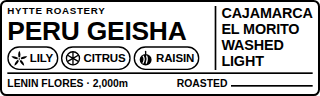
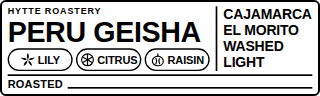
Tidy up the Peru Geisha storage label layout
Same information, fewer visual elements:
- Equal-width cup-note chips on a fixed left column, so the three
  badges line up instead of running ragged into the divider
- One outline icon style for all three notes (lily stays a silhouette
  for legibility at 203 dpi)
- Evenly spaced spec column, larger product name
- Bottom band reduced to a single ROASTED write-in rule; producer name
  and altitude dropped as the lowest-priority fields

Claude-Session: https://claude.ai/code/session_01VZhszou4rETUdQ5poG58zp

diff --git a/labels/hytte-peru-geisha/label_source.html b/labels/hytte-peru-geisha/label_source.html
@@ -1,33 +1,34 @@
 <meta charset="utf-8">
 <style>
-  @page { margin:0 }
   html,body{margin:0;padding:0;background:#fff;width:960px;height:288px;overflow:hidden}
   *{box-sizing:border-box}
   #label{
-    width:960.0px;height:288.0px;background:#fff;color:#000;
-    border:6.72px solid #000;border-radius:19.2px;
+    width:960px;height:288px;background:#fff;color:#000;
+    border:6px solid #000;border-radius:17px;
     font-family:"Liberation Sans","DejaVu Sans",Arial,sans-serif;
     display:flex;flex-direction:column;overflow:hidden;
-    padding:12.0px 15.84px 10.08px 15.84px;
+    padding:13px 17px 11px 17px;
   }
   .top{display:flex;flex:1 1 auto;min-height:0}
-  .left{flex:1 1 auto;min-width:0;display:flex;flex-direction:column;padding-right:13.2px}
-  .brand{font-size:29.28px;font-weight:700;letter-spacing:2.04px;line-height:1;white-space:nowrap}
-  .name{font-size:79.2px;font-weight:700;letter-spacing:-0.72px;line-height:1;white-space:nowrap;margin-top:7.2px}
-  .notes{display:flex;gap:8.16px;margin-top:auto}
-  .chip{display:flex;align-items:center;gap:5.28px;border:4.8px solid #000;border-radius:36.0px;
-        padding:0 11.52px 0 6.24px;height:70.08px}
-  .chip span{font-size:34.56px;font-weight:700;line-height:1;letter-spacing:-0.36px;white-space:nowrap}
-  .chip svg{display:block;width:51.84px;height:51.84px;flex:0 0 auto}
-  .divider{width:5.28px;background:#000;margin-right:14.88px;align-self:stretch}
-  .right{flex:0 0 auto;display:flex;flex-direction:column;justify-content:space-between;padding:0.48px 0 2.88px 0}
-  .spec{font-size:43.2px;font-weight:700;line-height:1;white-space:nowrap;letter-spacing:-0.48px}
-  .bottom{display:flex;align-items:center;gap:16.8px;border-top:5.28px solid #000;
-          margin-top:7.68px;padding-top:7.2px;height:54.72px}
-  .sub{font-size:31.2px;font-weight:700;line-height:1;white-space:nowrap}
-  .roast{margin-left:auto;display:flex;align-items:center;gap:10.8px}
-  .roast b{font-size:31.2px;font-weight:700;line-height:1}
-  .blank{width:244.8px;height:5.28px;background:#000;align-self:center;margin-top:14.4px}
+
+  .left{width:606px;flex:0 0 606px;display:flex;flex-direction:column}
+  .brand{font-size:27px;font-weight:700;letter-spacing:2.6px;line-height:1}
+  .name{font-size:86px;font-weight:700;letter-spacing:-1.2px;line-height:1;margin-top:8px;white-space:nowrap}
+  .notes{display:flex;gap:10px;margin-top:auto}
+  .chip{flex:1 1 0;display:flex;align-items:center;justify-content:center;gap:7px;
+        border:4.5px solid #000;border-radius:34px;height:68px}
+  .chip span{font-size:33px;font-weight:700;line-height:1;letter-spacing:-0.4px}
+  .chip svg{display:block;width:45px;height:45px;flex:0 0 auto}
+
+  .rule{width:5px;background:#000;margin:0 18px;align-self:stretch}
+
+  .right{flex:1 1 auto;display:flex;flex-direction:column;justify-content:space-between;padding:2px 0 4px}
+  .spec{font-size:42px;font-weight:700;line-height:1;white-space:nowrap;letter-spacing:-0.6px}
+
+  .bottom{display:flex;align-items:center;gap:14px;border-top:5px solid #000;
+          margin-top:10px;padding-top:8px;height:48px}
+  .bottom b{font-size:33px;font-weight:700;line-height:1;letter-spacing:0.6px}
+  .blank{flex:1 1 auto;height:5px;background:#000;margin-top:20px}
 </style>
 <div id="label">
   <div class="top">
@@ -35,43 +36,50 @@
       <div class="brand">HYTTE ROASTERY</div>
       <div class="name">PERU GEISHA</div>
       <div class="notes">
+
         <div class="chip">
           <svg viewBox="0 0 24 24">
-            <g fill="#000">
-              <g transform="translate(12,13)">
-                <path d="M0 0 C-2.3 -4.4 -1.9 -8.6 0 -11.6 C1.9 -8.6 2.3 -4.4 0 0 Z"/>
-                <path d="M0 0 C-2.3 -4.4 -1.9 -8.6 0 -11.6 C1.9 -8.6 2.3 -4.4 0 0 Z" transform="rotate(72)"/>
-                <path d="M0 0 C-2.3 -4.4 -1.9 -8.6 0 -11.6 C1.9 -8.6 2.3 -4.4 0 0 Z" transform="rotate(144)"/>
-                <path d="M0 0 C-2.3 -4.4 -1.9 -8.6 0 -11.6 C1.9 -8.6 2.3 -4.4 0 0 Z" transform="rotate(216)"/>
-                <path d="M0 0 C-2.3 -4.4 -1.9 -8.6 0 -11.6 C1.9 -8.6 2.3 -4.4 0 0 Z" transform="rotate(288)"/>
-              </g>
+            <g fill="#000" transform="translate(12,12.4)">
+              <path id="p" d="M0 0 C-2.35 -4.3 -2.0 -8.5 0 -11.5 C2.0 -8.5 2.35 -4.3 0 0 Z"/>
+              <use href="#p" transform="rotate(72)"/><use href="#p" transform="rotate(144)"/>
+              <use href="#p" transform="rotate(216)"/><use href="#p" transform="rotate(288)"/>
             </g>
-            <circle cx="12" cy="13" r="2.5" fill="#fff"/>
-            <circle cx="12" cy="13" r="1.15" fill="#000"/>
+            <circle cx="12" cy="12.4" r="2.6" fill="#fff"/>
+            <circle cx="12" cy="12.4" r="1.2" fill="#000"/>
           </svg>
           <span>LILY</span>
         </div>
+
         <div class="chip">
-          <svg viewBox="0 0 24 24" fill="none" stroke="#000" stroke-width="1.85" stroke-linecap="round">
-            <circle cx="12" cy="12" r="9.1"/>
-            <path d="M12 12 L12 3.4"/><path d="M12 12 L19.4 7.7"/><path d="M12 12 L19.4 16.3"/>
-            <path d="M12 12 L12 20.6"/><path d="M12 12 L4.6 16.3"/><path d="M12 12 L4.6 7.7"/>
-            <circle cx="12" cy="12" r="1.1" fill="#000" stroke="none"/>
+          <svg viewBox="0 0 24 24">
+            <g fill="none" stroke="#000" stroke-width="1.9" stroke-linecap="round">
+              <circle cx="12" cy="12" r="9.4"/>
+              <path d="M12 12 L12 3.6"/><path d="M12 12 L19.3 7.8"/><path d="M12 12 L19.3 16.2"/>
+              <path d="M12 12 L12 20.4"/><path d="M12 12 L4.7 16.2"/><path d="M12 12 L4.7 7.8"/>
+            </g>
+            <circle cx="12" cy="12" r="1.4" fill="#000"/>
           </svg>
           <span>CITRUS</span>
         </div>
+
         <div class="chip">
           <svg viewBox="0 0 24 24">
-            <path d="M12 6.0 L12 2.6" stroke="#000" stroke-width="1.9" stroke-linecap="round"/>
-            <ellipse cx="12" cy="14.0" rx="8.3" ry="7.9" fill="#000"/>
-            <path d="M8.6 9.0 C10.4 11.6 10.0 15.6 8.4 18.6" fill="none" stroke="#fff" stroke-width="1.7" stroke-linecap="round"/>
-            <path d="M13.4 8.9 C14.8 12.0 14.2 15.8 12.9 18.8" fill="none" stroke="#fff" stroke-width="1.7" stroke-linecap="round"/>
+            <g fill="none" stroke="#000" stroke-width="1.9" stroke-linecap="round" stroke-linejoin="round">
+              <path d="M12 5.9 L12 2.6"/>
+              <path d="M12 5.9 C17.2 6.9 20.7 10.4 20.7 14.2 C20.7 18.4 16.8 21.5 12 21.5
+                       C7.2 21.5 3.3 18.4 3.3 14.2 C3.3 10.4 6.8 6.9 12 5.9 Z"/>
+              <path d="M9.0 10.0 C10.6 12.4 10.3 15.6 8.9 18.2"/>
+              <path d="M14.4 10.4 C13.4 13.0 13.7 16.0 14.8 18.2"/>
+            </g>
           </svg>
           <span>RAISIN</span>
         </div>
+
       </div>
     </div>
-    <div class="divider"></div>
+
+    <div class="rule"></div>
+
     <div class="right">
       <div class="spec">CAJAMARCA</div>
       <div class="spec">EL MORITO</div>
@@ -79,8 +87,8 @@
       <div class="spec">LIGHT</div>
     </div>
   </div>
+
   <div class="bottom">
-    <div class="sub">LENIN FLORES &middot; 2,000m</div>
-    <div class="roast"><b>ROASTED</b><div class="blank"></div></div>
+    <b>ROASTED</b><div class="blank"></div>
   </div>
 </div>
